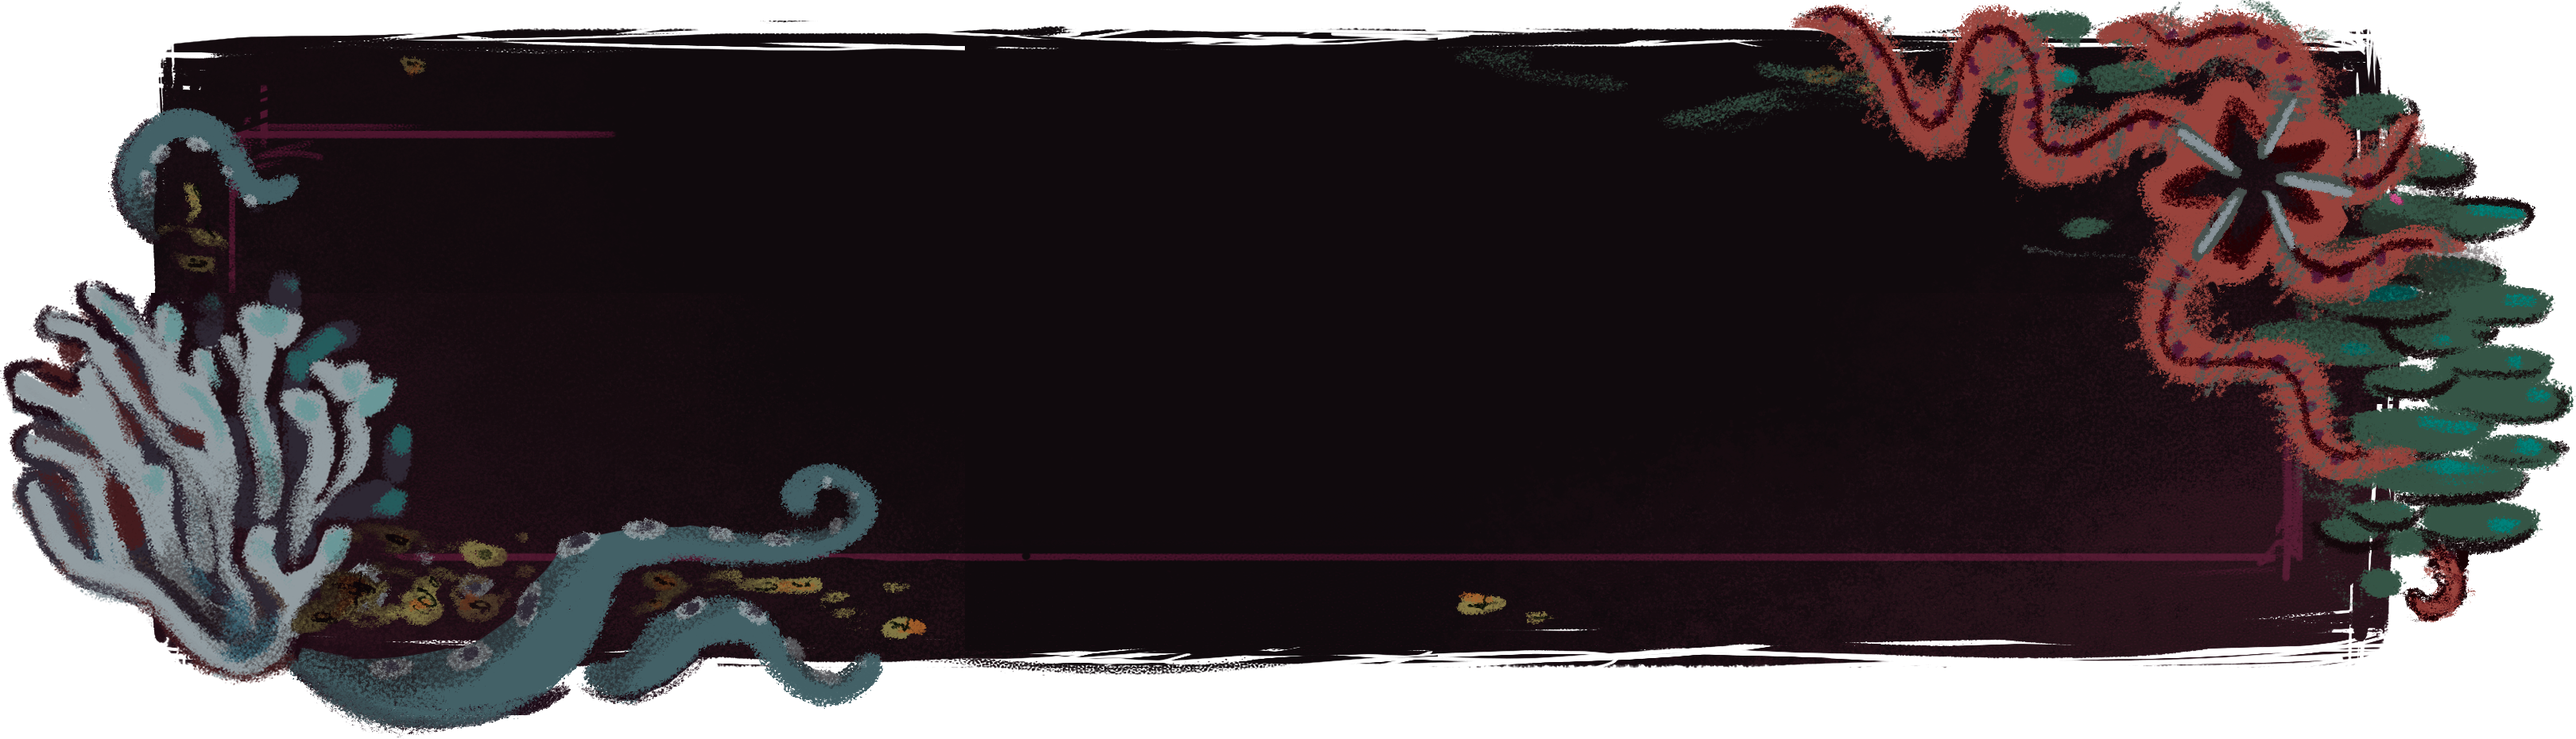
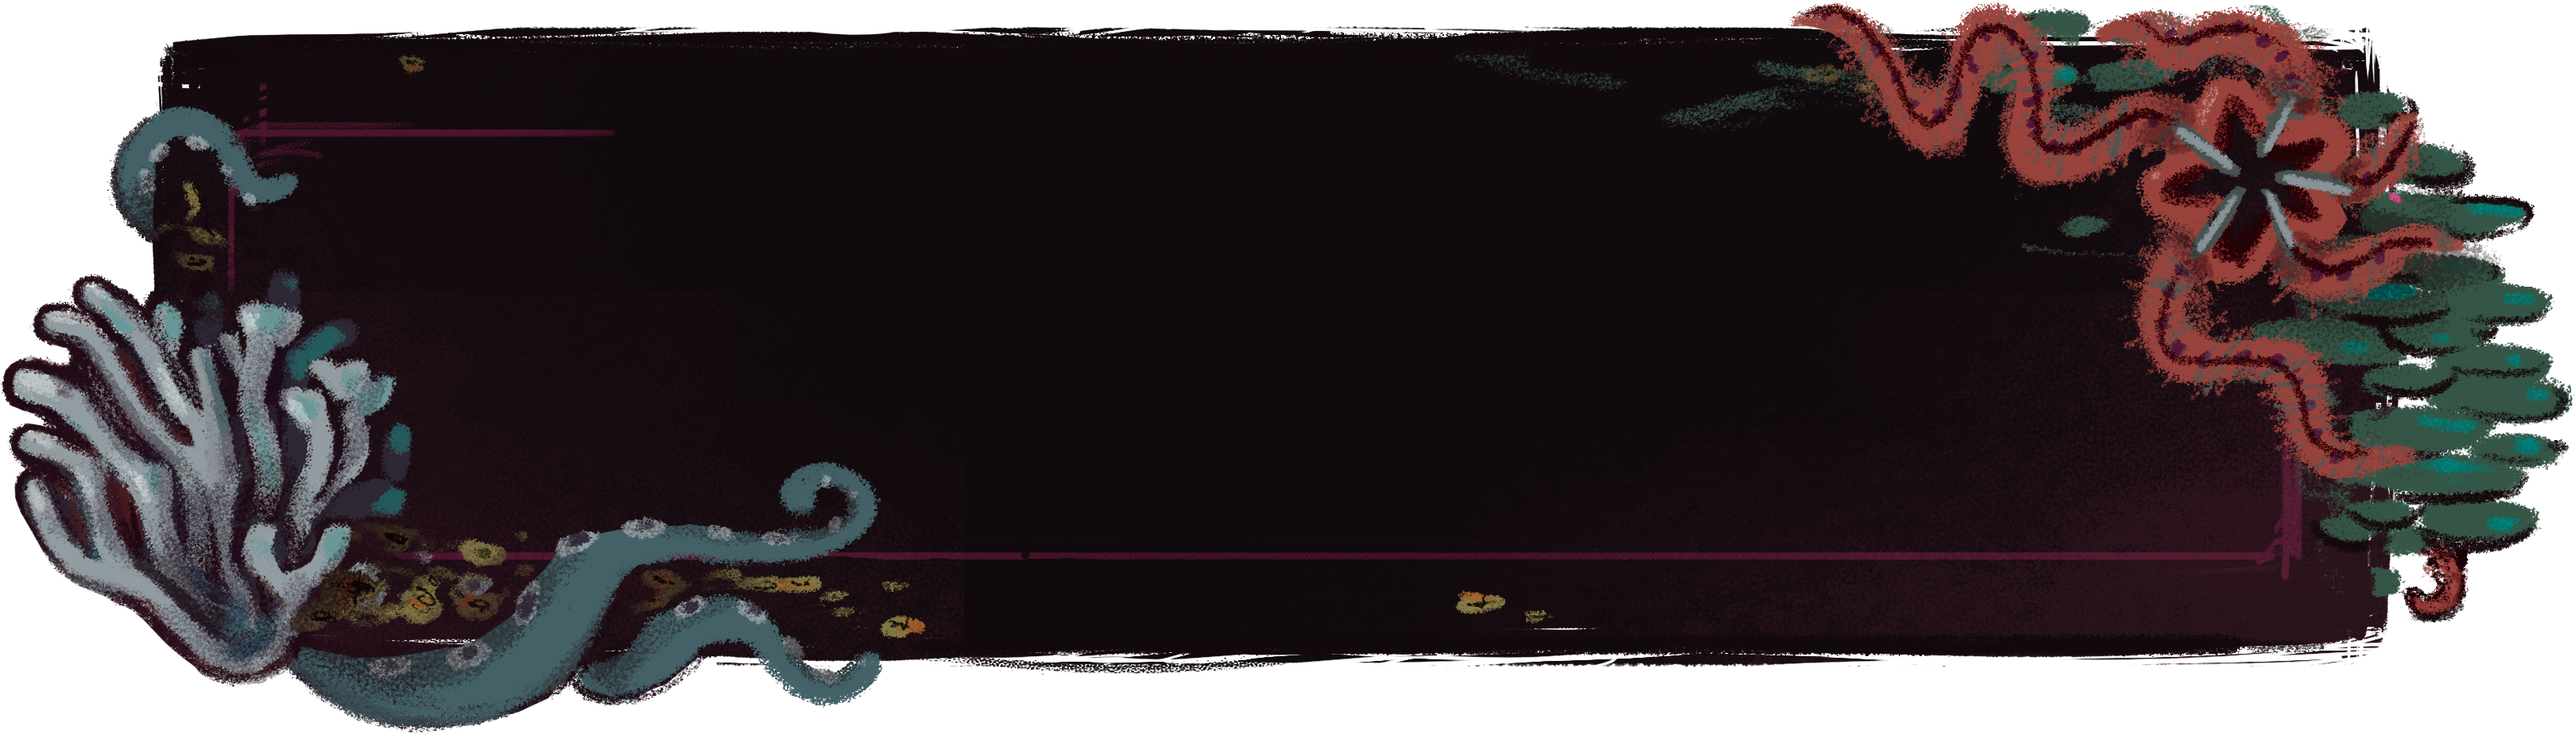
add mother influenced dialog

diff --git a/src/css/main.css b/src/css/main.css
@@ -122,7 +122,9 @@
 }
 
 .mother {
-  background-size: 85%;
+  background-image: url("/img/ui/choice-panel-mother.png");
+  background-size: 94%;
+  padding: 52px 83px 42px 83px;
 }
 
 .dialog-choice.selected > .choice {
@@ -134,8 +136,7 @@
 }
 
 .dialog-choice.selected > .mother {
-  background-image: url("/img/ui/choice-panel-ex-bf-highlighted.png");
-  background-size: cover !important;
+  background-image: url("/img/ui/choice-panel-mother-highlighted.png");
 }
 
 .dialog-choice.selected > .friend {
